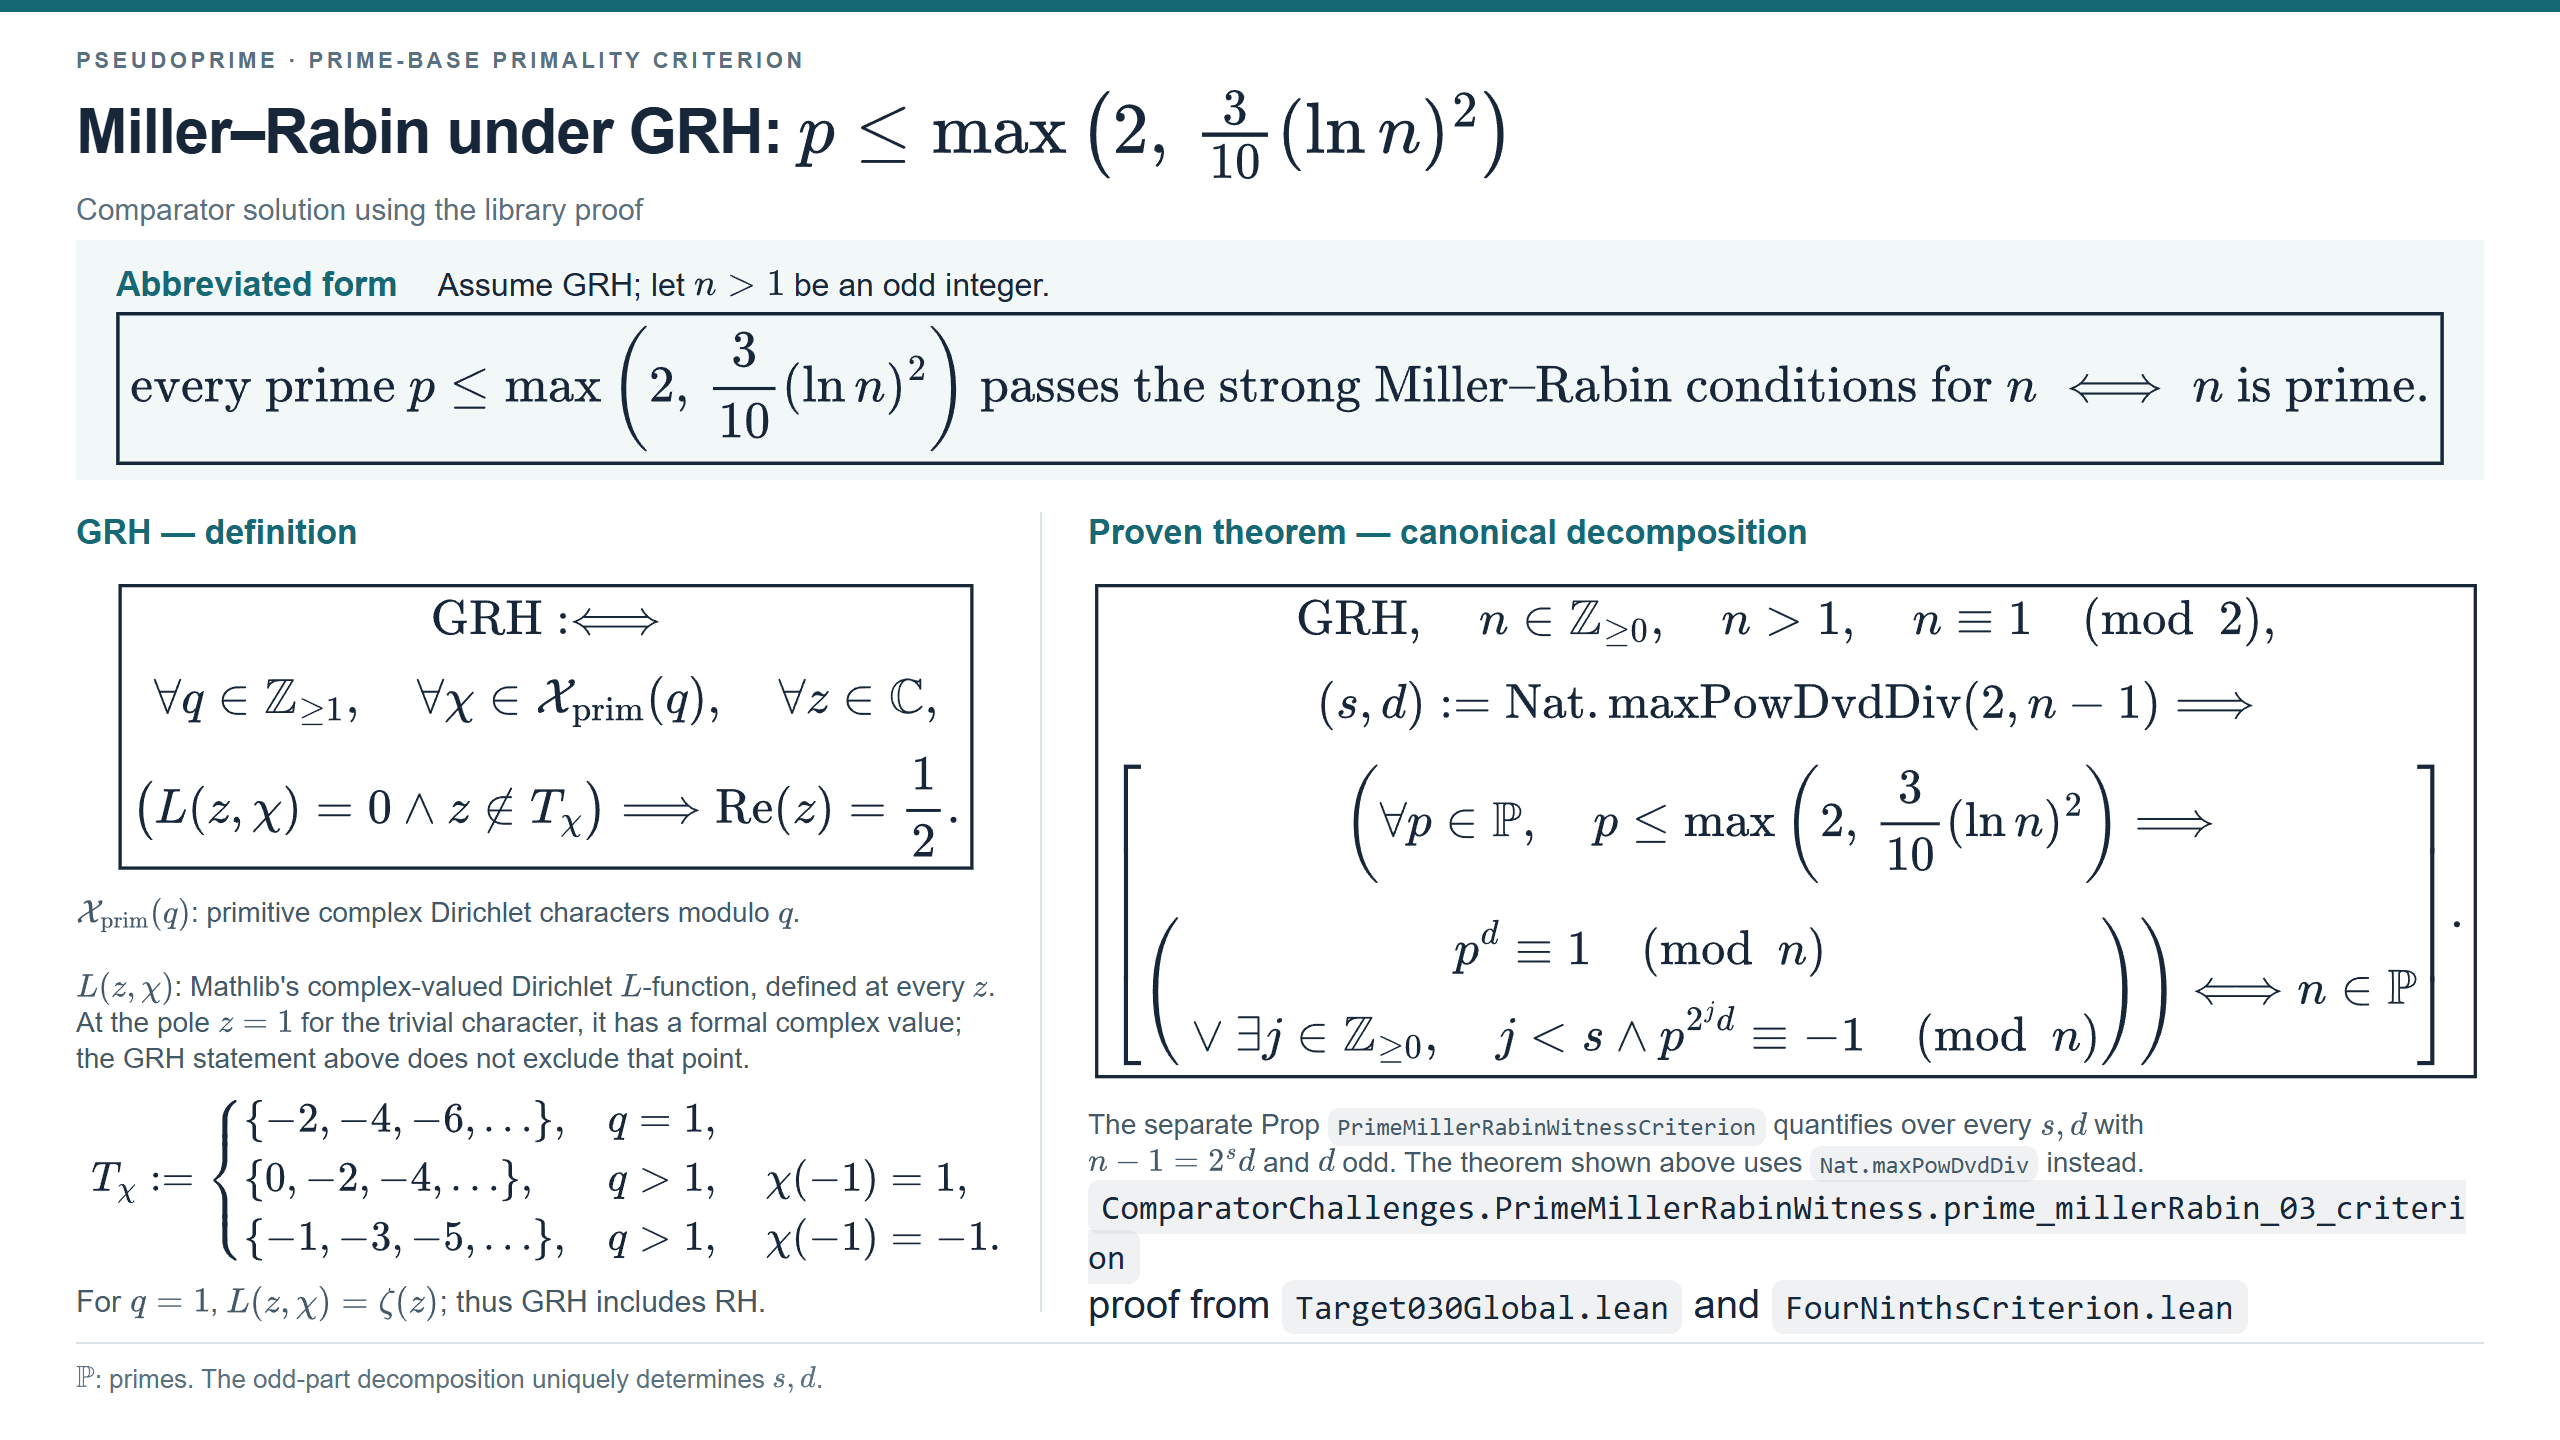
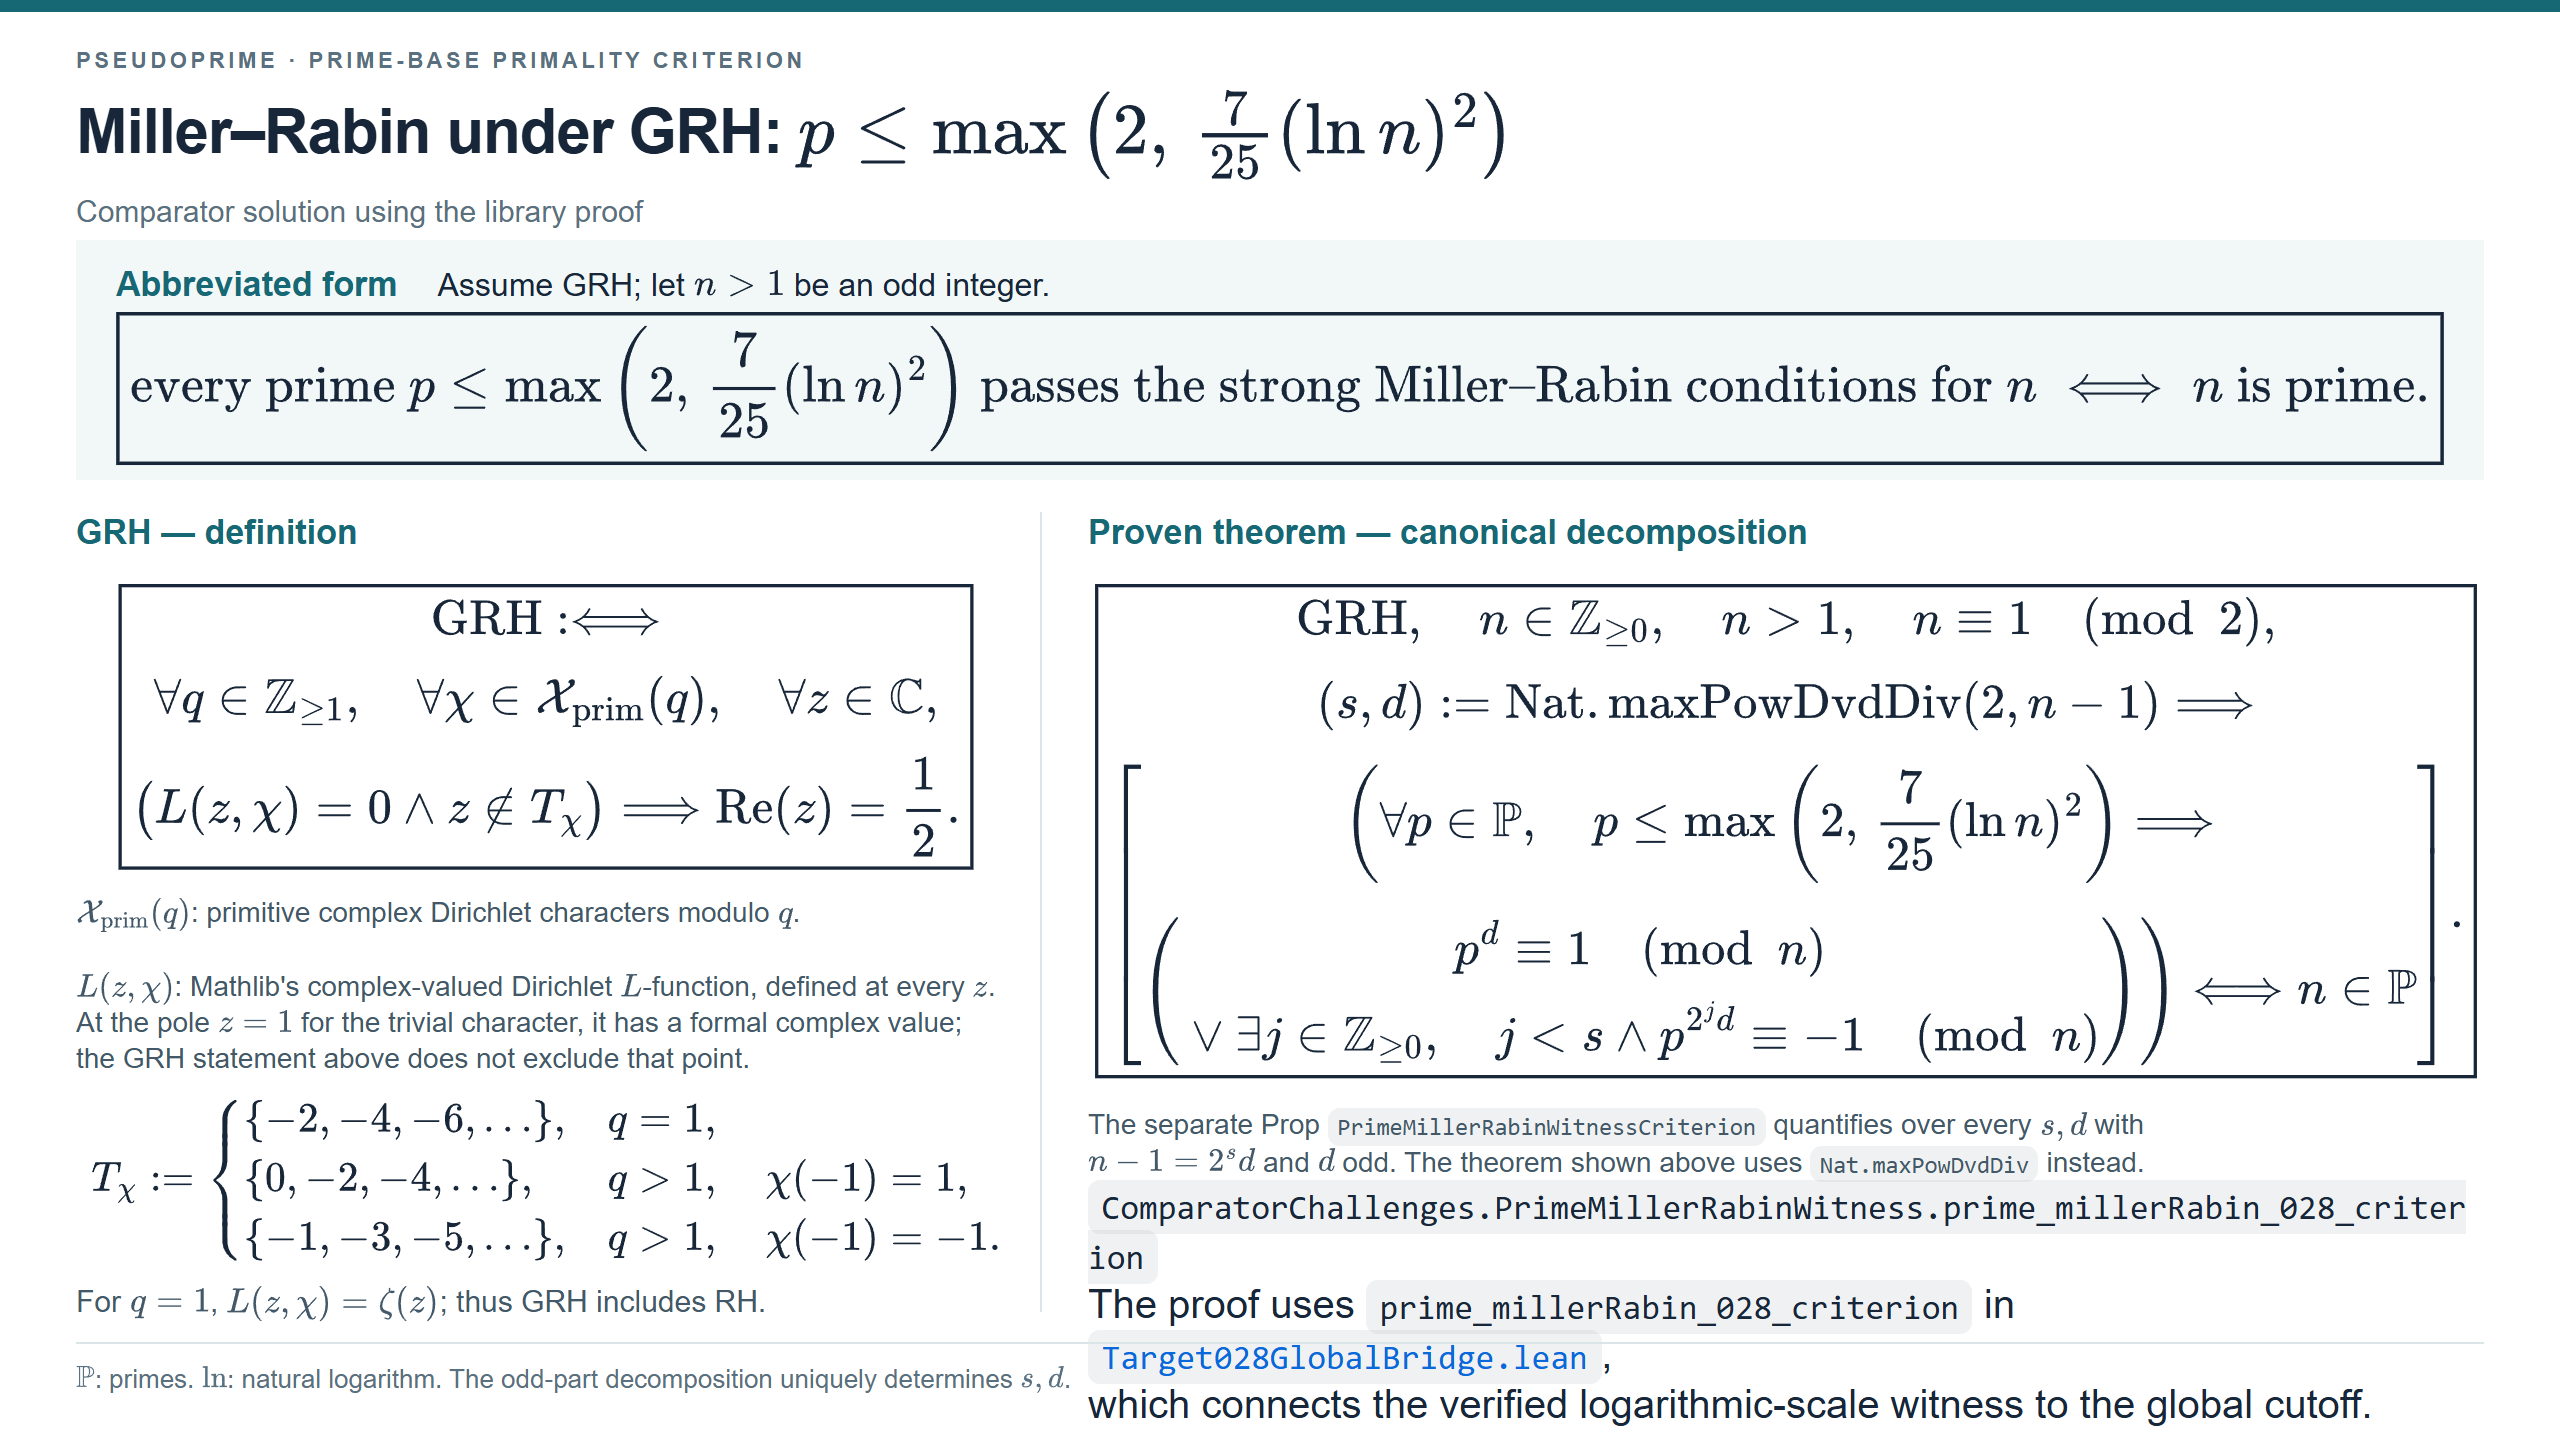
Connect Miller-Rabin challenge to 0.28 criterion

diff --git a/ComparatorChallenges/PrimeMillerRabinWitness/PrimeMillerRabinWitnessCriterion.md b/ComparatorChallenges/PrimeMillerRabinWitness/PrimeMillerRabinWitnessCriterion.md
@@ -171,13 +171,13 @@ $n-1=2^s d$ and $d$ odd. The theorem shown above uses `Nat.maxPowDvdDiv` instead
 
 `ComparatorChallenges.PrimeMillerRabinWitness.prime_millerRabin_log_nine_criterion`
 
-proof from `LeastPrime4136.lean` and `FourNinthsCriterion.lean`
+proof from `Target028GlobalBridge.lean`
 
 </div>
 
 <div class="foot">
 
-$\mathbb P$: primes. The odd-part decomposition uniquely determines $s,d$.
+$\mathbb P$: primes. $\ln$: natural logarithm. The odd-part decomposition uniquely determines $s,d$.
 
 </div>
 
@@ -187,7 +187,7 @@ $\mathbb P$: primes. The odd-part decomposition uniquely determines $s,d$.
 <div class="heading">
 <div class="eyebrow">PSEUDOPRIME · PRIME-BASE PRIMALITY CRITERION</div>
 
-# Miller–Rabin under GRH: $p\le\max\left(2,\,\frac{3}{10}(\ln n)^2\right)$
+# Miller–Rabin under GRH: $p\le\max\left(2,\,\frac{7}{25}(\ln n)^2\right)$
 
 <div class="subtitle">Comparator solution using the library proof</div>
 </div>
@@ -204,7 +204,7 @@ Assume GRH; let $n > 1$ be an odd integer.
 
 $$
 \boxed{
-\text{every prime }p \le \max\left(2,\,\frac{3}{10}(\ln n)^2\right)\text{ passes the strong Miller–Rabin conditions for }n \iff n\text{ is prime}.
+\text{every prime }p \le \max\left(2,\,\frac{7}{25}(\ln n)^2\right)\text{ passes the strong Miller–Rabin conditions for }n \iff n\text{ is prime}.
 }
 $$
 
@@ -274,7 +274,7 @@ $$
 \left[
 \begin{gathered}
 \left(\forall p\in\mathbb P,\quad
-p \le \max\left(2,\,\frac{3}{10}(\ln n)^2\right) \Longrightarrow\right.\\[4pt]
+p \le \max\left(2,\,\frac{7}{25}(\ln n)^2\right) \Longrightarrow\right.\\[4pt]
 \left.\left(
 \begin{gathered}
 p^d\equiv1\pmod n\\[2pt]
@@ -298,14 +298,16 @@ $n-1=2^s d$ and $d$ odd. The theorem shown above uses `Nat.maxPowDvdDiv` instead
 
 </div>
 
-`ComparatorChallenges.PrimeMillerRabinWitness.prime_millerRabin_03_criterion`
+`ComparatorChallenges.PrimeMillerRabinWitness.prime_millerRabin_028_criterion`
 
-proof from `Target030Global.lean` and `FourNinthsCriterion.lean`
+The proof uses `prime_millerRabin_028_criterion` in
+[`Target028GlobalBridge.lean`](../../PseudoPrime/PrimeTestBounds/MillerRabin/Target028GlobalBridge.lean),
+which connects the verified logarithmic-scale witness to the global cutoff.
 
 </div>
 
 <div class="foot">
 
-$\mathbb P$: primes. The odd-part decomposition uniquely determines $s,d$.
+$\mathbb P$: primes. $\ln$: natural logarithm. The odd-part decomposition uniquely determines $s,d$.
 
 </div>
